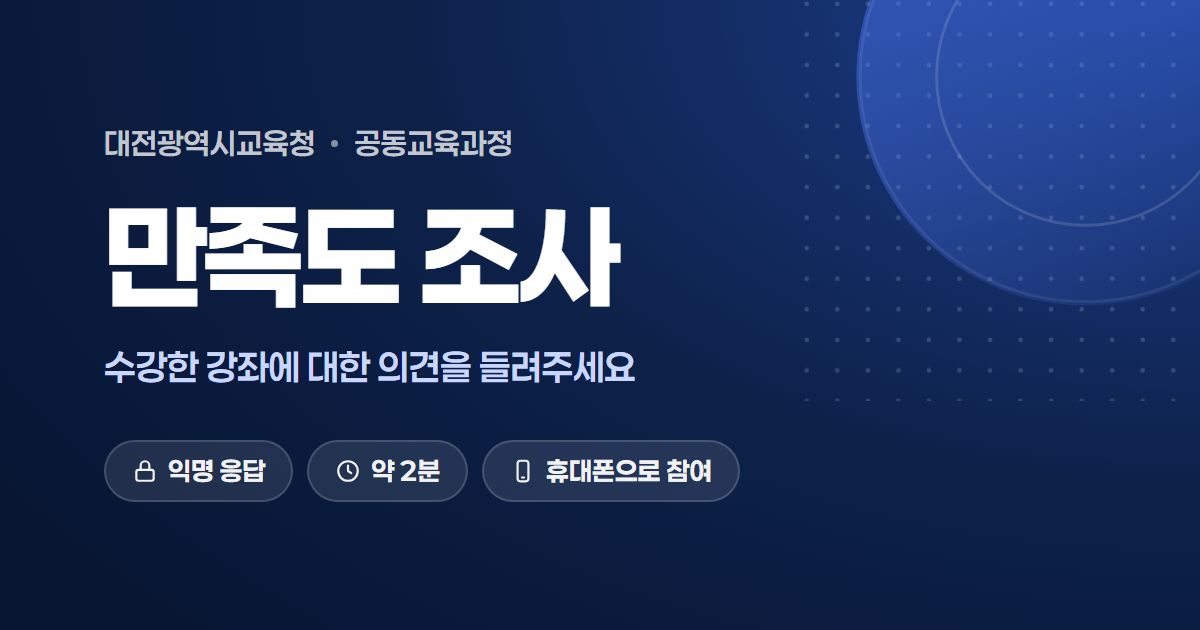
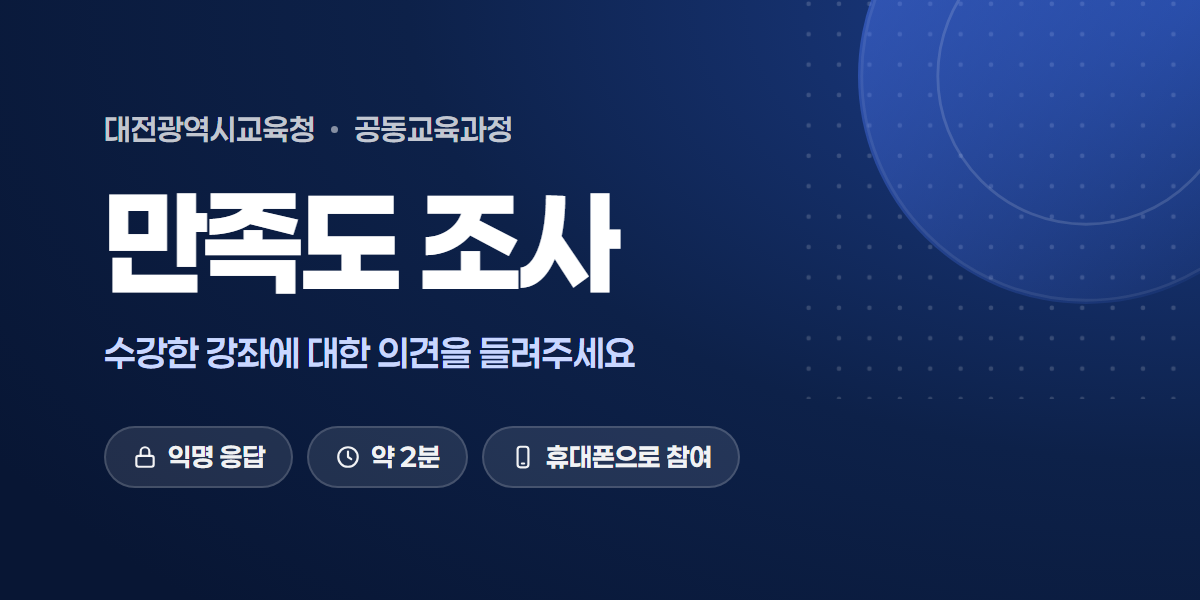
만족도 조사: 설문 공유 페이지 자동 갱신(GitHub Actions), 미리보기 이미지 2:1
- .github/workflows/survey-share-pages.yml: 매시간·수동·틀 변경 시 tools/survey_share_pages.py 실행, 바뀐 것만 커밋 후 Pages 다시 배포 요청
- 미리보기 이미지 1200x600(카카오 권장 2:1), ?v=2
- 설문 목록은 apikey 헤더로만 읽음(Supabase publishable 키 안내)

diff --git a/survey/index.html b/survey/index.html
@@ -14,9 +14,9 @@
   <meta property="og:title" content="공동교육과정 만족도 조사">
   <meta property="og:description" content="대전광역시교육청 공동교육과정 수강 학생 만족도 조사입니다. 익명으로 약 2분이면 참여할 수 있어요.">
   <meta property="og:url" content="https://djhs-curriculum.kro.kr/survey/">
-  <meta property="og:image" content="https://djhs-curriculum.kro.kr/survey/assets/img/og-survey.png">
+  <meta property="og:image" content="https://djhs-curriculum.kro.kr/survey/assets/img/og-survey.png?v=2">
   <meta property="og:image:width" content="1200">
-  <meta property="og:image:height" content="630">
+  <meta property="og:image:height" content="600">
   <meta property="og:image:alt" content="공동교육과정 만족도 조사">
   <meta name="twitter:card" content="summary_large_image">
   <!-- og:end -->

diff --git a/tools/survey_share_pages.py b/tools/survey_share_pages.py
@@ -26,7 +26,7 @@ MARK = "<!-- 자동 생성: tools/survey_share_pages.py 가 만든 설문별 공
 SLUG_RE = re.compile(r"^[a-z0-9-]{2,40}$")
 OG_RE = re.compile(r"<!-- og:start.*?<!-- og:end -->", re.S)
 DESC = "대전광역시교육청 공동교육과정 수강 학생 만족도 조사입니다. 익명으로 약 2분이면 참여할 수 있어요."
-IMAGE = "assets/img/og-survey.png"
+IMAGE = "assets/img/og-survey.png?v=2"   # 카카오 권장 2:1(1200x600). 그림을 바꾸면 v를 올려 미리보기 캐시를 피함
 
 
 def read(path):
@@ -53,7 +53,8 @@ def config():
 def fetch_surveys(api_base, key):
     req = urllib.request.Request(
         api_base + "/rest/v1/jcs_surveys?select=slug,title&order=created_at.asc",
-        headers={"apikey": key, "Authorization": "Bearer " + key, "Accept": "application/json"},
+        # 새 publishable 키는 apikey 헤더로만 보냄(Supabase 문서). 설문 목록은 로그인 없이 읽을 수 있는 공개 정보
+        headers={"apikey": key, "Accept": "application/json"},
     )
     with urllib.request.urlopen(req, timeout=30) as res:
         data = json.load(res)
@@ -75,7 +76,7 @@ def og_block(title, page_url, base_url):
         '<meta property="og:url" content="%s">' % e(page_url),
         '<meta property="og:image" content="%s">' % e(base_url + IMAGE),
         '<meta property="og:image:width" content="1200">',
-        '<meta property="og:image:height" content="630">',
+        '<meta property="og:image:height" content="600">',
         '<meta property="og:image:alt" content="%s">' % e(title),
         '<meta name="twitter:card" content="summary_large_image">',
         "<!-- og:end -->",
